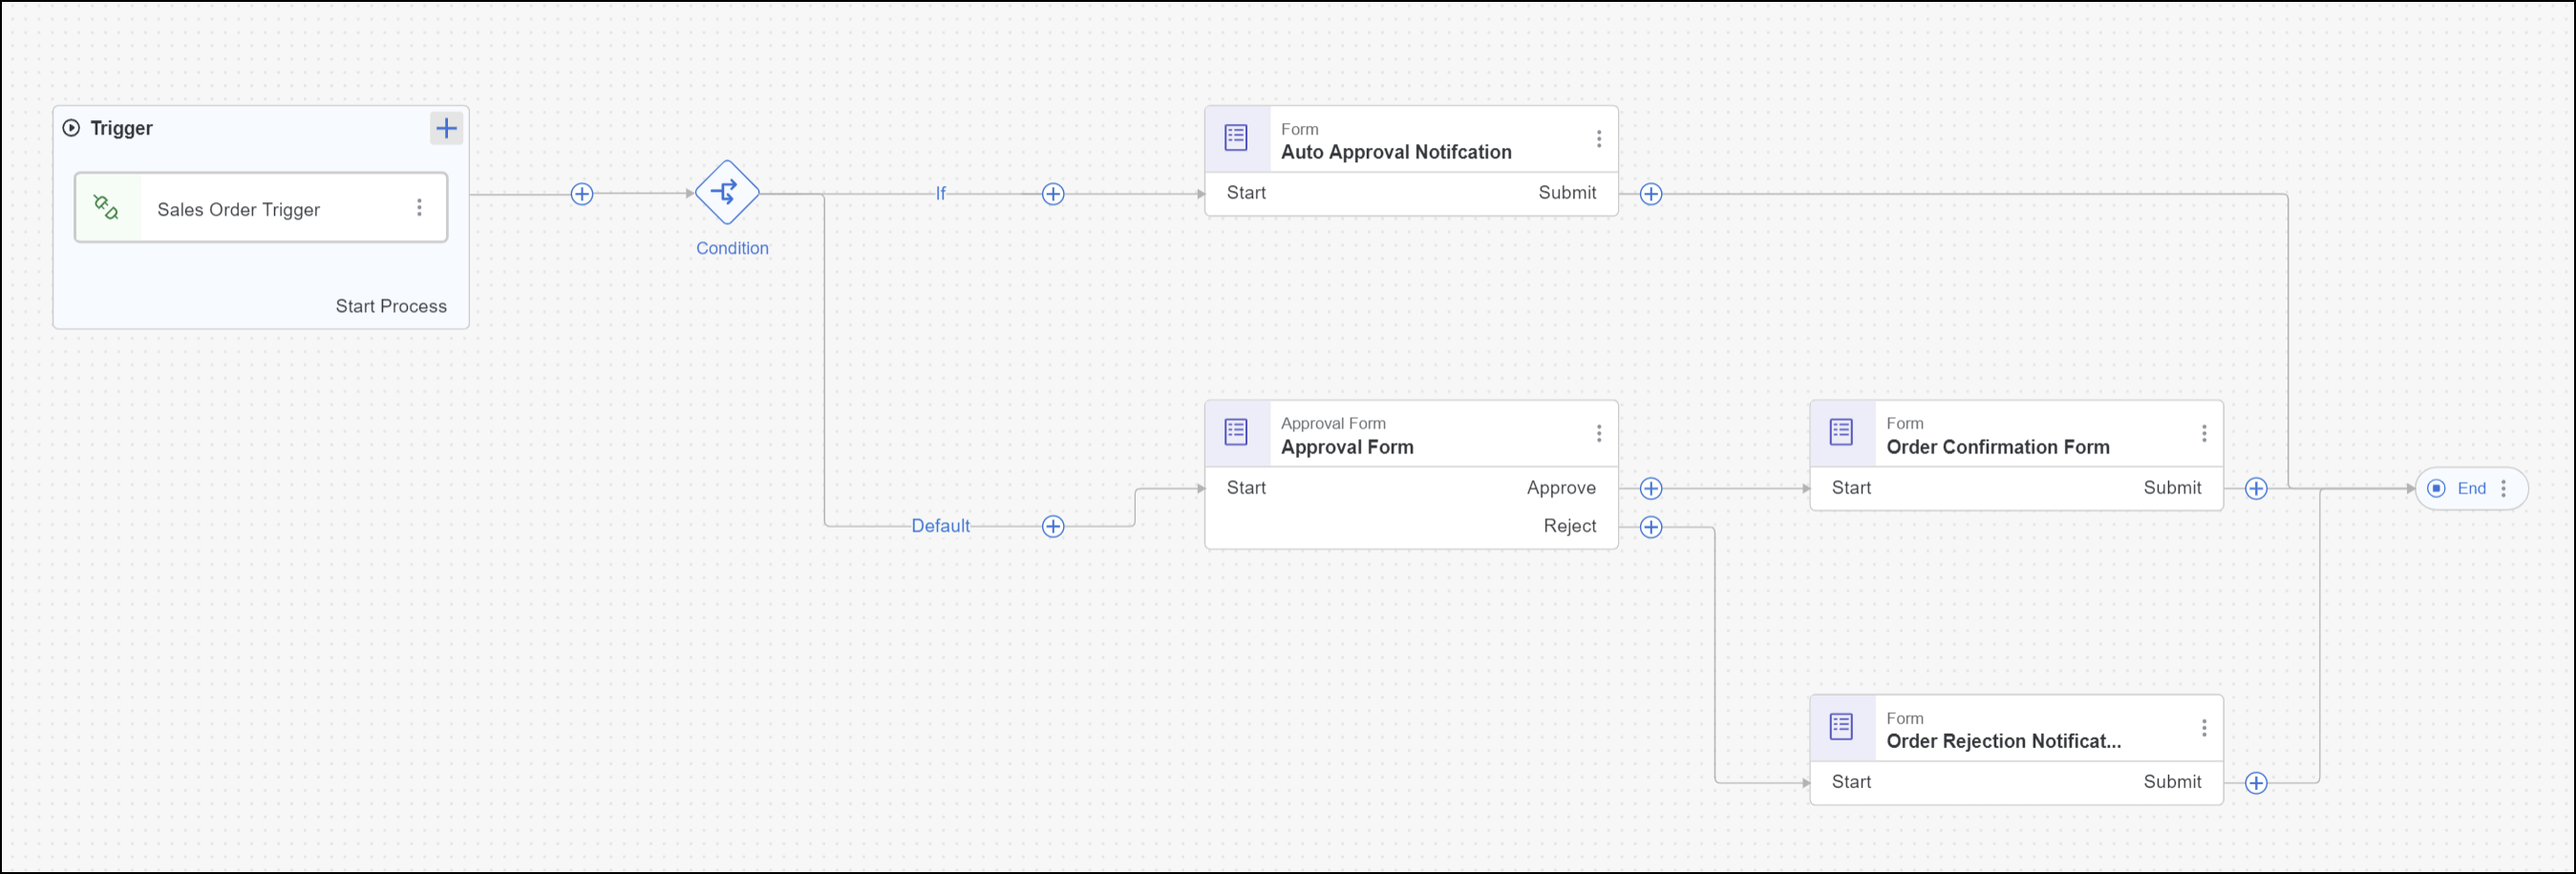
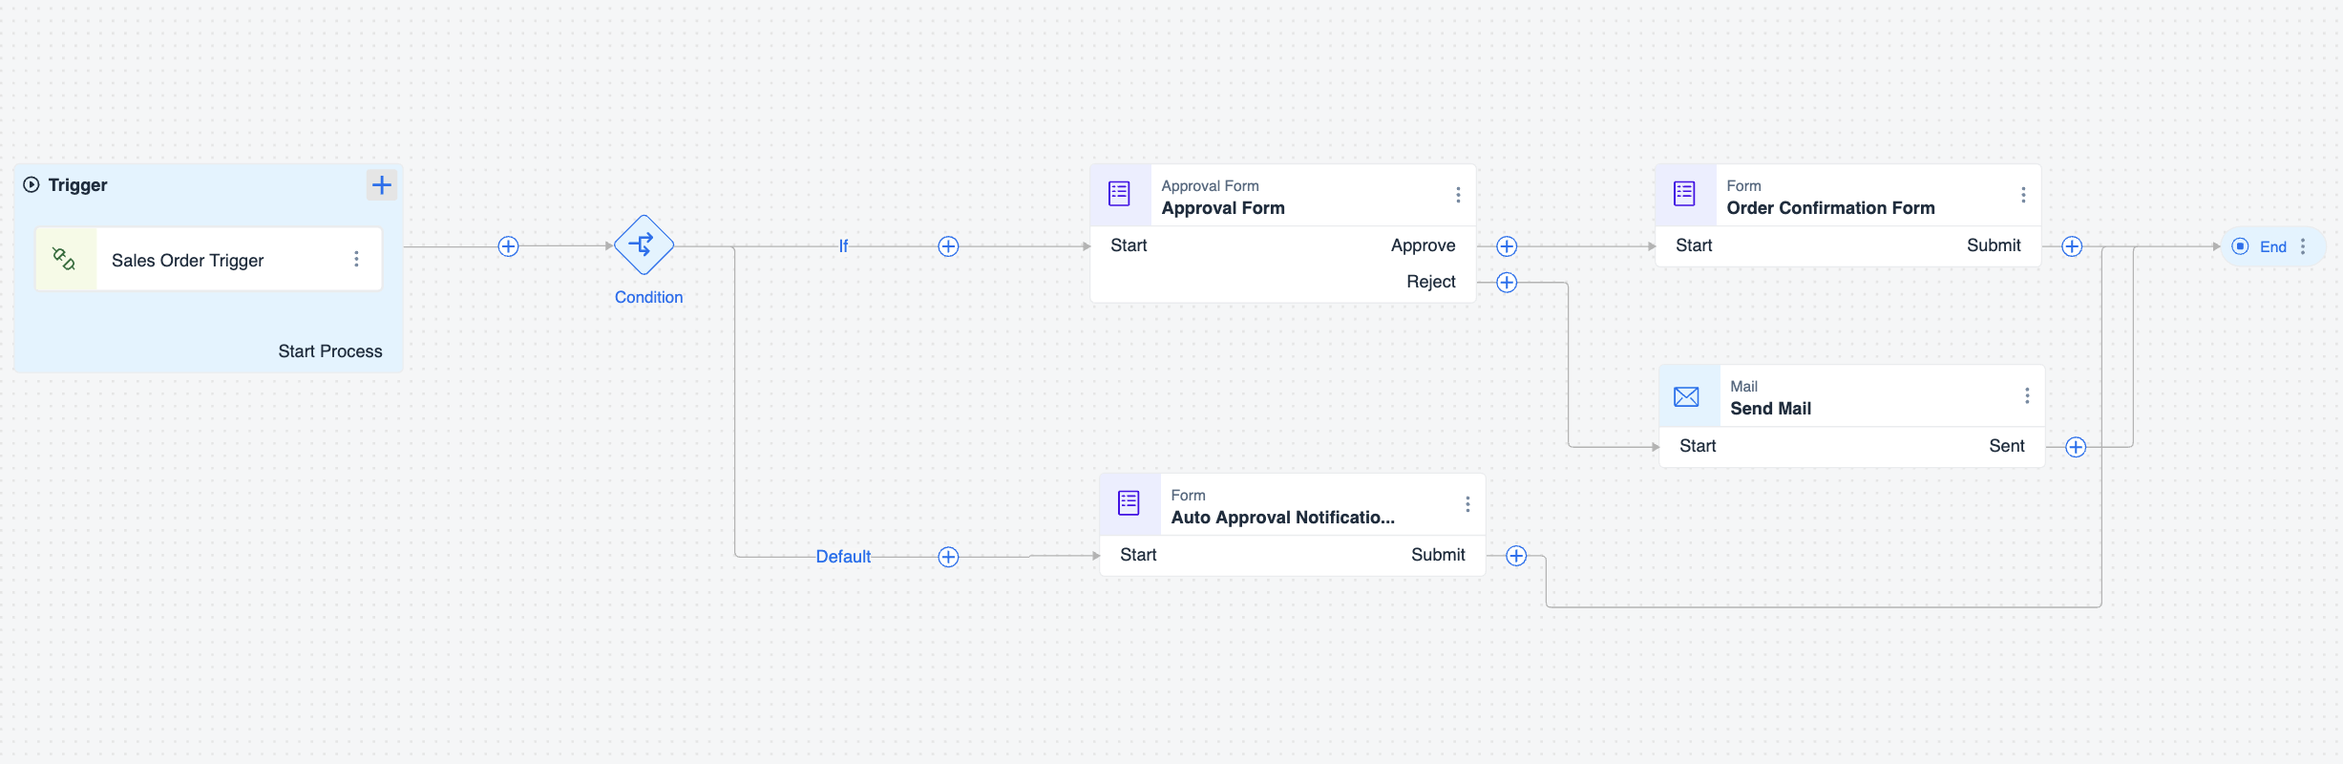
update ex1.1 README

diff --git a/exercises/ex1-SAP-Build-Process-Automation/ex1.1/README.md b/exercises/ex1-SAP-Build-Process-Automation/ex1.1/README.md
@@ -21,3 +21,7 @@ Please utilize the provided MTAR file to import a pre-existing Sales Order Busin
 ![Import Btn](../../../images/ex1.1/importbtn.png)
 ![Browse Files](../../../images/ex1.1/Browse%20Files.png)
 ![Import](../../../images/ex1.1/import.png)
+
+## Change Recipients e-mail address
+
+![Recipients](../../../images/ex1.1/recipients.png)
